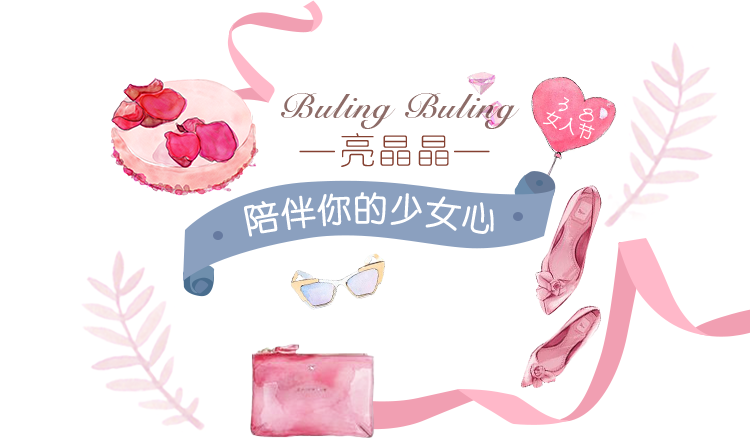
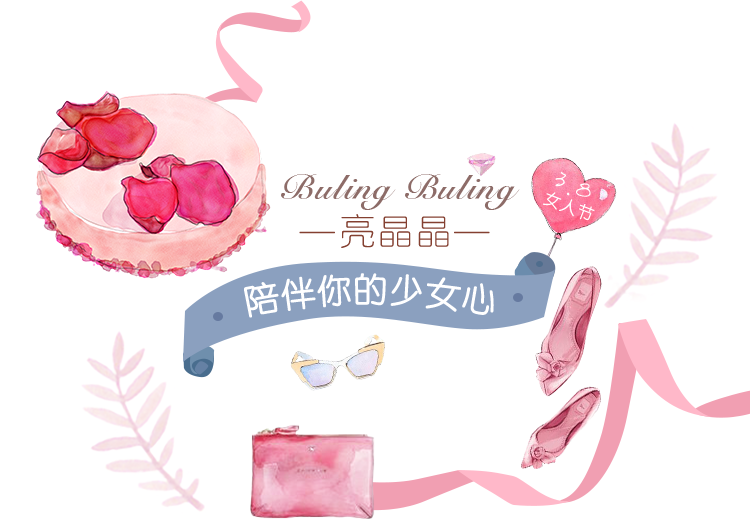
修改图片细节

diff --git a/app/commoncss/wap-normalize.css b/app/commoncss/wap-normalize.css
@@ -17,7 +17,7 @@ body{
 #evt_container a:active, #evt_container a:hover {outline: 0;}
 #evt_container .wrap{width:10rem; position:relative;}
 #evt_loading{text-align:center; margin-top:50%; position:static; color:#000000; font-size:0.5rem;}
-#evt_container header{background-color:#ffffff;text-align:center; position:relative; width:100%; height:1.5rem; font-size:0.5rem; line-height:0.5rem;}
+#evt_container header{background-color:#ffffff;text-align:center; position:relative; z-index: 10; width:100%; height:1.5rem; font-size:0.5rem; line-height:0.5rem;}
 #evt_container header a{display:block; width:1rem; height:1rem; position:absolute; top:50%; margin-top:-0.5rem; z-index:10;}
[2 lines of base64/hex data omitted]

diff --git a/app/commonjs/wap-scrollAnimate.js b/app/commonjs/wap-scrollAnimate.js
@@ -19,7 +19,7 @@
     if(typeof $==='undefined') return alert('ScrollAnimate依赖jquery'),null;
     if(typeof IScroll==='undefined') return alert('ScrollAnimate依赖IScroll'),null;
     if(typeof $.Velocity==='undefined') return alert('ScrollAnimate依赖Velocity'),null;
-    var useIScroll = isIphone(),slTop=0,myScroll,wrapHeight = $(window).height();
+    var isIphone = isIphone(),slTop=0,myScroll,wrapHeight = $(window).height();
     function isIphone(){
         var ua = navigator.userAgent.toLowerCase();
         if(/iphone/.test(ua)){
@@ -75,7 +75,7 @@
 
     global.scrollAnimate = function(el, items){
         initItems(items);
-        if(useIScroll){
+        if(isIphone && global.scrollAnimate.useIScroll){
             $(el).css({
                 position: 'absolute',
                 overflow: 'hidden',
@@ -104,6 +104,7 @@
         }
         scrollItems(items, slTop);
     };
+    global.scrollAnimate.useIScroll = true;
     global.scrollAnimate.on = function(){
         psb.on.apply(psb, arguments);
     }

diff --git a/app/womanDay/styles/index.scss b/app/womanDay/styles/index.scss
@@ -24,9 +24,21 @@
   }
   .sec1{
     position: relative;
-    height: px2rem(596);
+    height: px2rem(820);
     background: #f3d2d9 url(../images/sec1-bg.jpg) no-repeat;
     background-size: 100%;
+
+    @at-root .evt-mym{
+      .sec1{
+        height: px2rem(576) !important;
+
+        .sec1-p1{
+          top:50% !important;
+          -webkit-transform: translateY(-50%);
+          transform: translateY(-50%);
+        }
+      }
+    }
 
     &:after{
       content: "";
@@ -42,9 +54,7 @@
   }
   .sec1-p1{
     width: px2rem(750);
-    top: 50%;
-    -webkit-transform: translateY(-50%);
-    transform: translateY(-50%);
+    top: px2rem(204)
   }
   .sec2{
     position: relative;
@@ -296,5 +306,12 @@
     position: absolute;
     left:0;
     top:0;
+  }
+
+  .floater{
+    position: absolute;
+    left: px2rem(338);
+    top: 0;
+    width: px2rem(252);
   }
 }

diff --git a/app/womanDay/styles/index.css b/app/womanDay/styles/index.css
@@ -6,9 +6,15 @@
 
 #evt_content .sec1 {
   position: relative;
-  height: 7.94667rem;
+  height: 10.93333rem;
   background: #f3d2d9 url(../images/sec1-bg.jpg) no-repeat;
   background-size: 100%; }
+  .evt-mym .sec1 {
+    height: 7.68rem !important; }
+    .evt-mym .sec1 .sec1-p1 {
+      top: 50% !important;
+      -webkit-transform: translateY(-50%);
+      transform: translateY(-50%); }
   #evt_content .sec1:after {
     content: "";
     display: block;
@@ -22,9 +28,7 @@
 
 #evt_content .sec1-p1 {
   width: 10rem;
-  top: 50%;
-  -webkit-transform: translateY(-50%);
-  transform: translateY(-50%); }
+  top: 2.72rem; }
 
 #evt_content .sec2 {
   position: relative;
@@ -227,3 +231,9 @@
   position: absolute;
   left: 0;
   top: 0; }
+
+#evt_content .floater {
+  position: absolute;
+  left: 4.50667rem;
+  top: 0;
+  width: 3.36rem; }

diff --git a/app/womanDay/scripts/index.js b/app/womanDay/scripts/index.js
@@ -20,7 +20,7 @@
       ,{dom: '.sec2-p3-text', x:0, y:-200}
       ,{dom: '.sec-weight-select', x:0, y:-200, delay: 1000}
       ,{dom: '.sec2-price', x:0, y:200, delay: 1000}
-    ])
+    ]);
   }
 
   function Wselect(dom) {
@@ -137,6 +137,9 @@
       Jprice.text(price);
       JpriceImg.attr("src", assets["price-"+ (price + 48) +"_png"].url);
     });
+    $("#evt_content .sec1").append('<div class="floater">\
+      <img src="http://edm.mcake.com/shuxy/2016/womanDay/images/sec1/float_icon.png" />\
+      </div>');
   }
 
     function startLoading(){

diff --git a/app/womanDay/scripts/resdata.js b/app/womanDay/scripts/resdata.js
@@ -88,4 +88,9 @@ var resData = [
     "name":"sec1-bg_jpg",
     "type":"image",
     "url":"sec1-bg.jpg"
+  },
+  {
+    "name":"float_icon_png",
+    "type":"image",
+    "url":"sec1/float_icon.png"
   }];

diff --git a/app/womanDay/scripts/index2.js b/app/womanDay/scripts/index2.js
@@ -150,4 +150,6 @@
     loader.loadGroup('preload');
   }
   startLoading();
+
+  document.getElementById("evt_content").className += " evt-mym";
 })();
